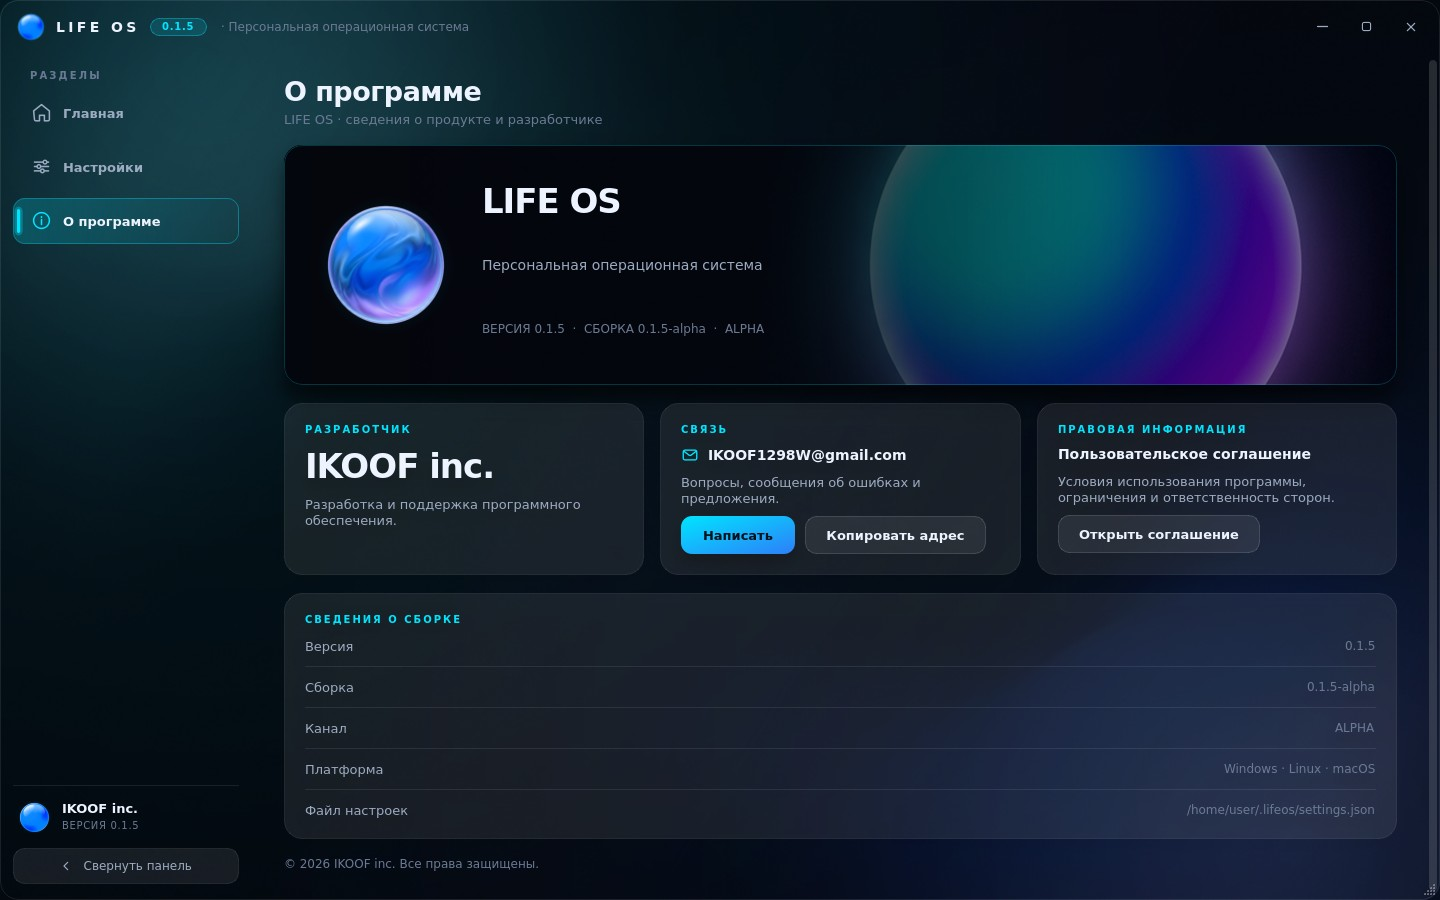
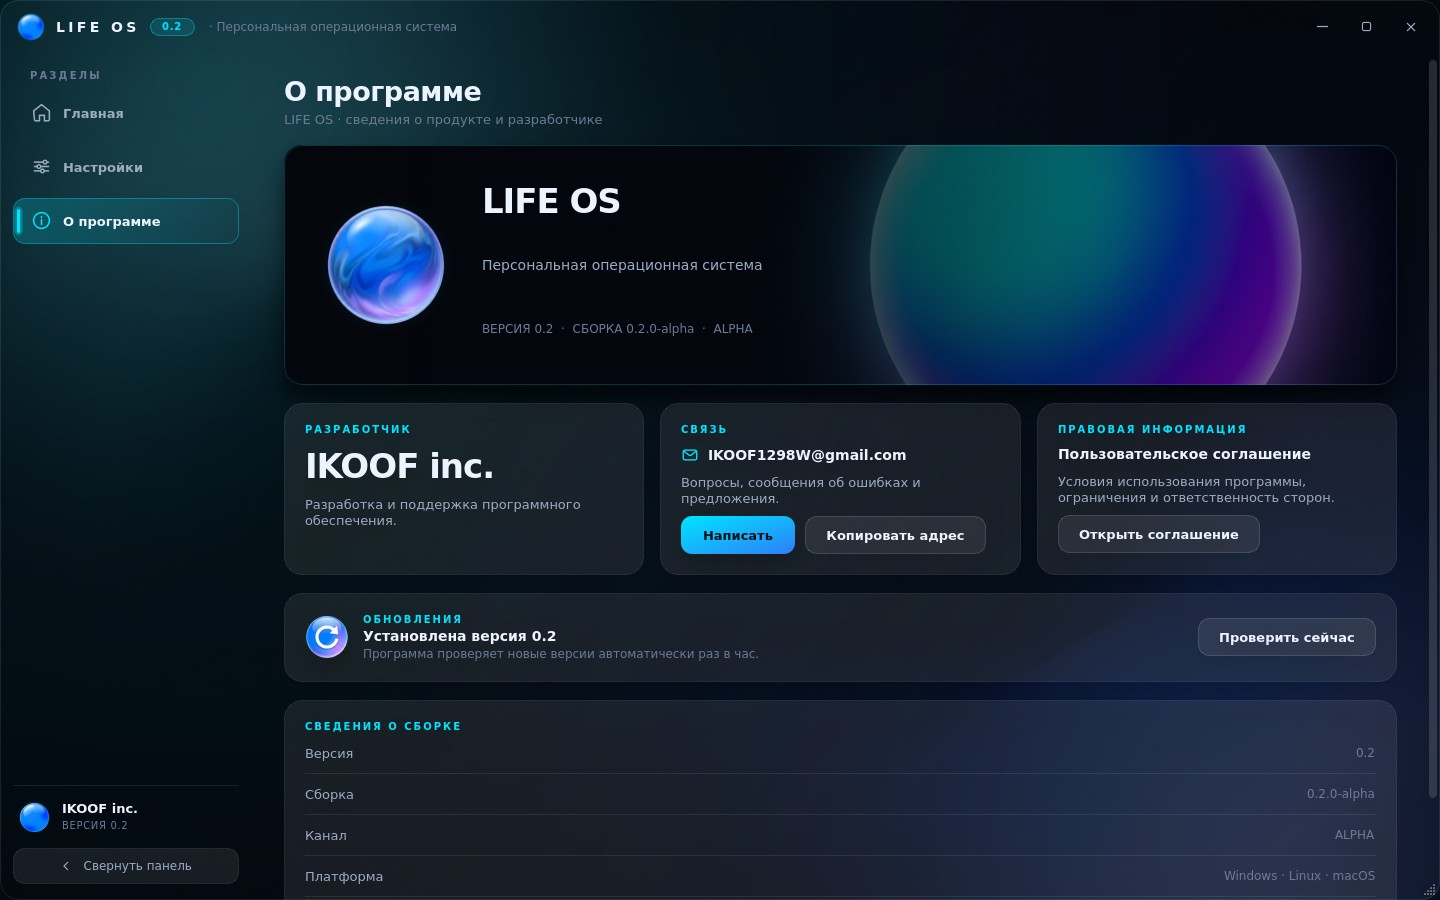
0.2: автообновление из GitHub, окно «Что нового», уведомления, орб-иконки, splash без Сатурна, плавные слайдеры

diff --git a/lifeos/updater.py b/lifeos/updater.py
@@ -189,10 +189,16 @@ class InstallWorker(QThread):
         self._cancel = True
 
     # ------------------------------------------------------------ служебное
+    # Архивы веток GitHub отдаются потоком без Content-Length, поэтому
+    # точный процент неизвестен. В этом случае показываем оценку, которая
+    # плавно приближается к 70 % и не выглядит зависшей.
+    _ASSUMED_MB = 40.0
+
     def _download(self, url: str, dest: Path):
         with _open(url) as r:
             total = int(r.headers.get("Content-Length") or self._info.size or 0)
             got = 0
+            last = -1
             with open(dest, "wb") as f:
                 while True:
                     if self._cancel:
@@ -202,18 +208,34 @@ class InstallWorker(QThread):
                         break
                     f.write(chunk)
                     got += len(chunk)
+                    mb = got / 1048576
                     if total:
-                        pct = int(got / total * 70)
-                        mb = got / 1048576
-                        self.progress.emit(min(70, pct), f"Загрузка… {mb:.1f} МБ")
+                        pct = min(70, int(got / total * 70))
+                        text = f"Загрузка… {mb:.1f} из {total / 1048576:.1f} МБ"
                     else:
-                        self.progress.emit(35, f"Загрузка… {got / 1048576:.1f} МБ")
+                        # асимптотика: чем больше скачано, тем ближе к 70
+                        pct = int(70 * (1 - 0.5 ** (mb / self._ASSUMED_MB)))
+                        text = f"Загрузка… {mb:.1f} МБ"
+                    if pct != last:
+                        last = pct
+                        self.progress.emit(pct, text)
 
     @staticmethod
     def _unpack_root(tmp: Path) -> Path:
         """В архивах GitHub всё лежит внутри одной папки."""
         items = [p for p in tmp.iterdir() if p.is_dir()]
         return items[0] if len(items) == 1 else tmp
+
+    @staticmethod
+    def _prune_backups(keep: int = 3):
+        """Оставляет только несколько последних резервных копий."""
+        root = cfg.USER_DIR / "backups"
+        if not root.exists():
+            return
+        items = sorted((p for p in root.iterdir() if p.is_dir()),
+                       key=lambda p: p.stat().st_mtime, reverse=True)
+        for old in items[keep:]:
+            shutil.rmtree(old, ignore_errors=True)
 
     def _backup(self) -> Path:
         stamp = time.strftime("%Y%m%d-%H%M%S")
@@ -267,6 +289,7 @@ class InstallWorker(QThread):
 
             self.progress.emit(92, "Установка файлов…")
             self._install(root)
+            self._prune_backups()
 
             self.progress.emit(100, "Готово")
             self.finished_ok.emit(str(backup))

diff --git a/lifeos/update_ui.py b/lifeos/update_ui.py
@@ -1,9 +1,12 @@
 """LIFE OS — интерфейс обновления: окно релиза, прогресс загрузки, плашка."""
 from __future__ import annotations
 
+from pathlib import Path
+
 from PySide6.QtCore import QRectF, Qt, QTimer, QUrl, Signal
 from PySide6.QtGui import QColor, QDesktopServices, QPainter, QPainterPath, QPen
 from PySide6.QtWidgets import (
+    QSizePolicy,
     QApplication, QFrame, QHBoxLayout, QLabel, QPushButton, QScrollArea,
     QVBoxLayout, QWidget,
 )
@@ -102,7 +105,7 @@ class UpdateWindow(QWidget):
         self.setWindowFlags(Qt.FramelessWindowHint | Qt.Dialog)
         self.setAttribute(Qt.WA_TranslucentBackground, True)
         self.setWindowModality(Qt.ApplicationModal)
-        self.setFixedSize(720, 620)
+        self.resize(780, 640)
 
         root = QVBoxLayout(self)
         root.setContentsMargins(0, 0, 0, 0)
@@ -210,7 +213,9 @@ class UpdateWindow(QWidget):
         fl = QHBoxLayout(foot)
         fl.setContentsMargins(28, 16, 26, 20)
         fl.setSpacing(11)
-        self.hint = make_label("Текущая версия будет сохранена в резервную копию.", "Caption")
+        self.hint = make_label("Сохраним резервную копию текущей версии.", "Caption")
+        self.hint.setWordWrap(False)
+        self.hint.setSizePolicy(QSizePolicy.Ignored, QSizePolicy.Preferred)
         fl.addWidget(self.hint, 1)
 
         self.btn_web = QPushButton("Открыть на GitHub")
@@ -246,7 +251,7 @@ class UpdateWindow(QWidget):
         self.btn_later.clicked.disconnect()
         self.btn_later.clicked.connect(self._cancel)
         self.prog_box.setVisible(True)
-        self.hint.setText("Не закрывайте программу до конца установки.")
+        self.hint.setText("Не закрывайте программу.")
 
         self._worker = InstallWorker(self._info, self)
         self._worker.progress.connect(self._on_progress)
@@ -270,7 +275,7 @@ class UpdateWindow(QWidget):
         self.bar.setValue(100)
         self.prog_pct.setText("100%")
         self.prog_label.setText("Обновление установлено")
-        self.hint.setText(f"Резервная копия: {backup}")
+        self.hint.setText(f"Резервная копия: {Path(backup).name}")
         self.btn_later.setText("Позже")
         self.btn_later.clicked.disconnect()
         self.btn_later.clicked.connect(self.close)

diff --git a/tools/screenshot.py b/tools/screenshot.py
@@ -48,6 +48,21 @@ def main():
         w.grab().save(str(OUT / f"{name}.jpg"), quality=90)
         print("saved", name)
 
+    from lifeos.update_ui import UpdateWindow
+    from lifeos.updater import UpdateInfo
+    import json
+    vj = json.loads((cfg.DATA / "version.json").read_text("utf-8"))
+    info = UpdateInfo(version="0.3", title=vj["title"], notes="",
+                      changes=vj["changes"], url=vj["url"], page=vj["page"],
+                      size=41_500_000, published="2026-09-15",
+                      source="branch", available=True)
+    u = UpdateWindow(info)
+    u.show(); wait(700)
+    u.grab().save(str(OUT / "update.jpg"), quality=90); print("saved update")
+    u._start(); wait(900)
+    u.grab().save(str(OUT / "update_progress.jpg"), quality=90); print("saved update_progress")
+    u._worker.cancel(); wait(400); u.close()
+
     e = EulaWindow(first_run=True)
     e.resize(880, 680)
     e.show()

diff --git a/README.md b/README.md
@@ -3,13 +3,13 @@
 **Персональная операционная система** — оболочка для упрощения работы с ПК.
 Разработчик: **IKOOF inc.** · [IKOOF1298W@gmail.com](mailto:IKOOF1298W@gmail.com)
 
-Текущая версия — **0.1.5** (альфа).
+Текущая версия — **0.2** (альфа).
 
 ![Главный экран](docs/preview/home.jpg)
 
 ---
 
-## Что нового в 0.1.5
+## Что нового в 0.2
 
 **Исправлено**
 - Рывки интерфейса: анимации шли на 10–15 кадрах в секунду
@@ -58,6 +58,23 @@ python main.py --no-splash  # без экрана загрузки
 Требуется Python 3.10 или новее.
 
 ---
+
+## Обновления
+
+Программа обновляется прямо из этого репозитория.
+
+| Что | Как устроено |
+|---|---|
+| Источник | GitHub Releases, а если релизов нет — `data/version.json` в рабочей ветке |
+| Доступ | GitHub Contents API (работает там, где `raw.githubusercontent.com` закрыт), с запасным raw-каналом |
+| Автопроверка | через 4 секунды после запуска, далее раз в час |
+| Подтверждение | установка только после нажатия «Установить» — молча ничего не ставится |
+| Уведомления | плашка на главной, значок в заголовке окна и нативное уведомление Windows из области трея |
+| Установка | загрузка архива с прогрессом → распаковка → резервная копия в `~/.lifeos/backups` → замена файлов → перезапуск |
+| Откат | хранятся 3 последние резервные копии; `.git`, `.venv` и пользовательские данные не трогаются |
+
+Чтобы выпустить новую версию: поднимите `APP_VERSION` в `lifeos/config.py`,
+добавьте релиз в `data/changelog.json` и обновите `data/version.json`.
 
 ## Структура
 
